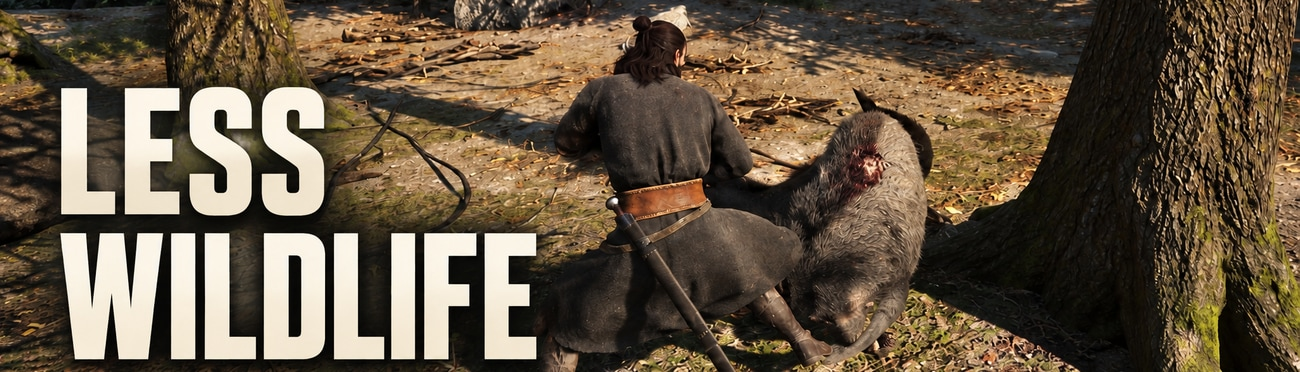
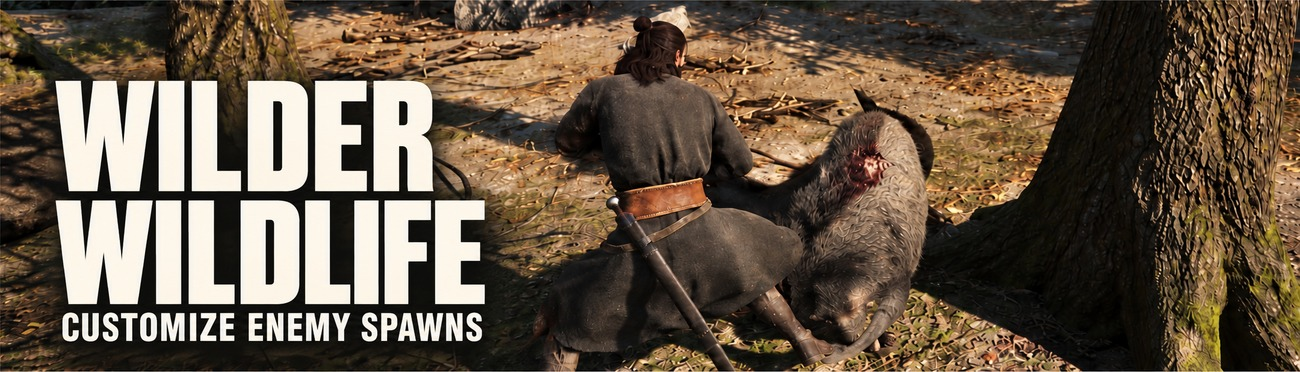
Rename public listing to Wilder Wildlife

diff --git a/README.md b/README.md
@@ -1,4 +1,4 @@
-# Less Wildlife
+# Wilder Wildlife - Customize Enemy Spawns
 
 [Download on Nexus Mods](https://www.nexusmods.com/thebloodofdawnwalker/mods/711?tab=files)
 
@@ -49,7 +49,7 @@ Examples and repeated messages are limited, with aggregate reports at most once 
 
 ## Credits
 
-Inspired by [Less Boars](https://www.nexusmods.com/thebloodofdawnwalker/mods/326) and [Less Wolves](https://www.nexusmods.com/thebloodofdawnwalker/mods/318) by MrSecondPlayer, including their 40% preset and ordinary-species selection. Less Wildlife uses a custom implementation; the original scripts and artwork are not included. The optional Mod Setting Menu helper is included unchanged under its integration guide's copying permission. References and byte provenance are in `UPSTREAM.json`; rights and attribution are in `LICENSE.txt`.
+Inspired by [Less Boars](https://www.nexusmods.com/thebloodofdawnwalker/mods/326) and [Less Wolves](https://www.nexusmods.com/thebloodofdawnwalker/mods/318) by MrSecondPlayer, including their 40% preset and ordinary-species selection. Wilder Wildlife uses a custom implementation; the original scripts and artwork are not included. The optional Mod Setting Menu helper is included unchanged under its integration guide's copying permission. References and byte provenance are in `UPSTREAM.json`; rights and attribution are in `LICENSE.txt`.
 
 ## Build from source
 

diff --git a/RELEASE-NOTES.md b/RELEASE-NOTES.md
@@ -1,4 +1,4 @@
-# Less Wildlife 0.1.0
+# Wilder Wildlife - Customize Enemy Spawns 0.1.0
 
 - Add separate 0–100% replacement chances for boar herds and wolf packs.
 - Choose Bandits, Blood guards, Regular guards, Vidmo, Kobolds or No spawn independently for each species. Enabled outcomes have equal chances; an empty selection keeps the animals.
